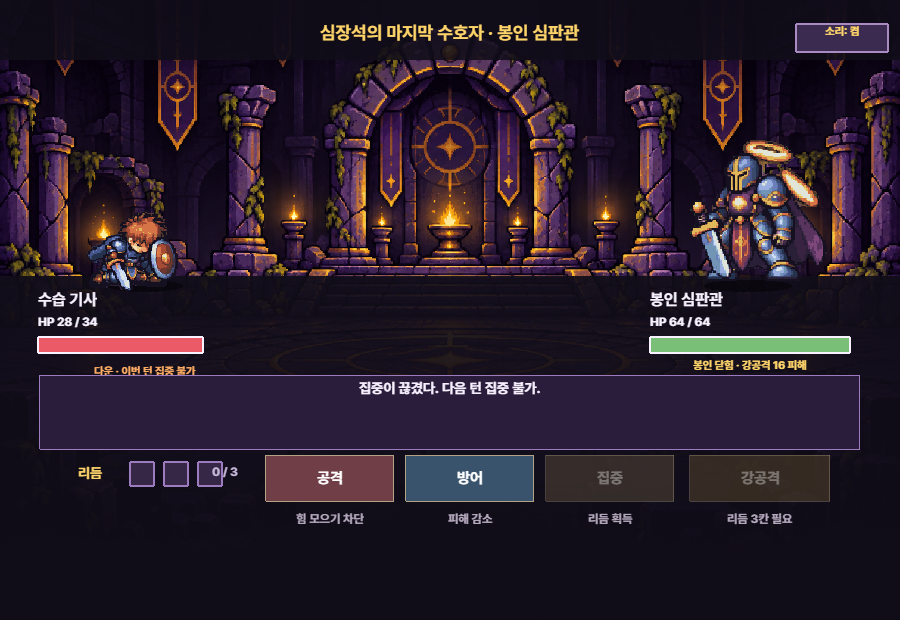
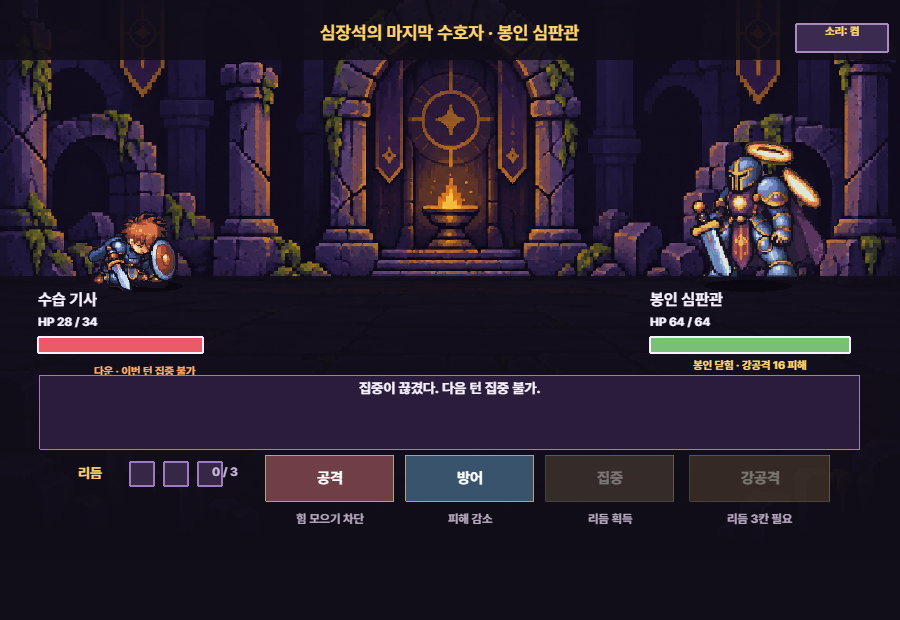
Align impact poses and simplify battle presentation

Changed region(s): [[0.0, 0.0919, 1.0, 0.4597]]

diff --git a/game.js b/game.js
@@ -419,6 +419,7 @@ class BattleScene extends Phaser.Scene {
 
   setPlayerPose(pose, hold = false) {
     if (!this.playerFigure?.active) return;
+    this.cancelStrikeMotion('player');
     // 수습 기사 전투 시트 원본은 오른쪽을 향한다. 모든 포즈 전환 뒤에도
     // 좌측 기사는 원본 방향 그대로 오른쪽의 적을 바라본다.
     this.playerFigure.setFlipX(false);
@@ -458,6 +459,7 @@ class BattleScene extends Phaser.Scene {
     if (!this.enemyConfig.combatSheet || !this.enemyFigure?.active) return;
     const prefix = this.enemyConfig.combatAnimKey;
     if (!this.anims.exists(`${prefix}-${pose}`)) return;
+    this.cancelStrikeMotion('enemy');
     if (pose === 'down') this.startEnemyDownMotion();
     else this.stopEnemyDownMotion();
     this.enemyFigure.play(`${prefix}-${pose}`, true);
@@ -487,7 +489,7 @@ class BattleScene extends Phaser.Scene {
   buildBackground() {
     this.cameras.main.setBackgroundColor('#171024');
     if (this.enemyConfig.boss) {
-      this.add.image(WIDTH / 2, HEIGHT / 2, 'seal-arbiter-arena').setDisplaySize(WIDTH, HEIGHT);
+      this.add.image(WIDTH / 2, HEIGHT / 2 - 60, 'seal-arbiter-arena').setDisplaySize(WIDTH, HEIGHT);
     } else {
       this.add.rectangle(WIDTH / 2, 374, WIDTH, 235, 0x21172e);
       pixelSprite(this, WIDTH / 2, 228, 'shrine-kit', 'arch', 390, .25);
@@ -522,7 +524,7 @@ class BattleScene extends Phaser.Scene {
   }
 
   buildUi() {
-    this.intentPanel = this.panel(225, 95, 410, 88); this.intentText = this.text(225, 64, '', 17, '#ffd56a', 'center'); this.intentDetail = this.text(225, 98, '', 12, '#c6b6d8', 'center');
+    this.intentPanel = this.panel(450, 95, 600, 66); this.intentText = this.text(450, 70, '', 15, '#ffd56a', 'center'); this.intentDetail = this.text(450, 99, '', 12, '#c6b6d8', 'center');
     this.playerName = this.text(38, 290, '수습 기사', 16);
     this.enemyName = this.text(650, 290, '', 16);
     this.playerHpText = this.text(38, 315, '', 12); this.enemyHpText = this.text(650, 315, '', 12);
@@ -688,12 +690,13 @@ class BattleScene extends Phaser.Scene {
       figure.anims.stop();
       figure.setFrame('guard-2');
     }
-    const compactGoblinGuard = side === 'enemy' && this.enemyConfig.id === 'goblin';
     figure.setTint(0x83d6ff);
     this.time.delayedCall(emphatic ? 520 : 440, () => {
       if (figure?.active) figure.clearTint();
     });
-    this.playEffect('guard', figure.x, figure.y, compactGoblinGuard ? (emphatic ? 94 : 80) : (emphatic ? 128 : 112), emphatic, emphatic ? 620 : 520, compactGoblinGuard ? 5 : 15);
+    const frontX = figure.x + (side === 'player' ? 40 : -36);
+    const chestY = figure.y - (side === 'player' ? 8 : 58);
+    this.playEffect('guard', frontX, chestY, emphatic ? 38 : 30, false, 260, 15);
     audio.play('defend');
   }
 
@@ -741,17 +744,60 @@ class BattleScene extends Phaser.Scene {
     this.enemyFigure.setPosition(base.x, base.y).setScale(base.scaleX, base.scaleY).setAngle(base.angle);
   }
 
-  animateLunge(side, emphatic = false) {
+  cancelStrikeMotion(side) {
+    const motion = this.strikeMotions?.[side];
+    if (!motion) return;
+    motion.tween?.stop();
+    motion.timers.forEach(timer => timer.remove(false));
+    if (motion.figure.active) motion.figure.setX(motion.homeX);
+    delete this.strikeMotions[side];
+  }
+
+  strikeImpact(side) {
+    const motion = this.strikeMotions?.[side];
+    if (!motion || motion.hit) return;
+    motion.hit = true;
+    motion.tween?.stop();
+    motion.figure.setX(motion.homeX + (side === 'player' ? 1 : -1) * (motion.heavy ? 40 : 28));
+    motion.figure.setFrame(`${motion.pose}-${motion.contact}`);
+    motion.phase = 'impact';
+    const hold = motion.heavy ? 180 : 120;
+    motion.timers.push(this.time.delayedCall(hold, () => {
+      if (!motion.figure.active) return;
+      motion.phase = 'recovery';
+      motion.figure.setFrame(`${motion.pose}-${motion.contact === 1 ? 2 : 3}`);
+      if (motion.contact === 1) motion.timers.push(this.time.delayedCall(90, () => {
+        if (motion.figure.active) motion.figure.setFrame(`${motion.pose}-3`);
+      }));
+      motion.tween = this.tweens.add({ targets: motion.figure, x: motion.homeX, duration: 200, ease: 'Sine.InOut' });
+    }));
+  }
+
+  animateLunge(side, emphatic = false, impactDelay = emphatic ? 560 : 360) {
     const figure = side === 'player' ? this.playerFigure : this.enemyFigure;
-    const distance = (side === 'player' ? 1 : -1) * (emphatic ? 38 : 24);
-    this.tweens.add({
-      targets: figure,
-      x: figure.x + distance,
-      duration: emphatic ? 145 : 150,
-      yoyo: true,
-      hold: emphatic ? 100 : 80,
-      ease: 'Cubic.Out',
-    });
+    if (!this.inputLocked) return; // 동기 규칙 검사에는 표시용 시간축을 만들지 않는다.
+    this.cancelStrikeMotion(side);
+    const sign = side === 'player' ? 1 : -1;
+    const pose = emphatic ? 'heavy' : 'attack';
+    const contact = emphatic || (side === 'enemy' && ['orc', 'kobold'].includes(this.enemyConfig.id)) ? 2 : 1;
+    const motion = { figure, pose, contact, heavy: emphatic, homeX: figure.x, timers: [], phase: 'anticipation', hit: false };
+    (this.strikeMotions ||= {})[side] = motion;
+    figure.anims.pause();
+    figure.setFrame(`${pose}-0`);
+    motion.tween = this.tweens.add({ targets: figure, x: motion.homeX - sign * 4, duration: Math.max(80, impactDelay - 100), ease: 'Sine.InOut' });
+    motion.timers.push(this.time.delayedCall(impactDelay - 100, () => {
+      if (!figure.active) return;
+      motion.phase = 'swing';
+      if (contact === 2) figure.setFrame(`${pose}-1`);
+      motion.tween = this.tweens.add({ targets: figure, x: motion.homeX + sign * (emphatic ? 40 : 28), duration: 100, ease: 'Cubic.In' });
+    }));
+    // 피해 처리와 같은 시점에 접촉 프레임을 확정하고, 이후에만 복귀한다.
+    motion.timers.push(this.time.delayedCall(impactDelay + (emphatic ? 390 : 330), () => {
+      if (!figure.active || this.strikeMotions?.[side] !== motion) return;
+      this.cancelStrikeMotion(side);
+      if (side === 'player') this.setPlayerPose('idle', true);
+      else this.setEnemyPose('idle', true);
+    }));
   }
 
   setHealth(side, value, animate = true) {
@@ -836,13 +882,12 @@ class BattleScene extends Phaser.Scene {
     const baseScaleX = figure.scaleX;
     const baseScaleY = figure.scaleY;
     figure.setTint(0xffd56a);
-    this.playEffect('rhythm', figure.x, figure.y - 42, 116, true, 520, 16);
-    this.playEffect('attack', figure.x - 44, figure.y - 4, 92, true, 420, 16);
+    this.playEffect('rhythm', figure.x, figure.y - 58, 44, false, 300, 16);
     this.tweens.add({
       targets: figure,
-      scaleX: baseScaleX * .9,
-      scaleY: baseScaleY * .9,
-      angle: -10,
+      scaleX: baseScaleX,
+      scaleY: baseScaleY,
+      angle: -4,
       duration: 120,
       yoyo: true,
       hold: 160,
@@ -951,6 +996,7 @@ class BattleScene extends Phaser.Scene {
 
   applyTutorialEnemyHit(outcome, fromPointer = false) {
     if (!outcome.playerDamage || this.enemyHp <= 0) return;
+    this.strikeImpact('player');
     this.resolutionPhase = 'collision';
     this.setHealth('enemy', this.enemyHp - outcome.playerDamage);
     const guarded = outcome.enemy.key === 'defend';
@@ -975,15 +1021,15 @@ class BattleScene extends Phaser.Scene {
         });
       }
     }
-    // 왼쪽의 기사가 내리친 지점에 효과를 두어, 방어 중인 적의 몸통·가드 효과를 덮지 않는다.
-    // 가드 중 고블린의 몸통·가드 파형보다 왼쪽, 즉 양측 사이에서만 충돌시킨다.
-    const impactX = this.enemyFigure.x - (guarded ? 172 : 88);
-    this.playEffect('attack', impactX, this.enemyFigure.y - 4, outcome.action === 'finisher' ? 112 : (guarded ? 60 : 78), outcome.action === 'finisher', undefined, 6);
+    // 검격은 공격 시트에 있다. 몸통 접촉 표식만 작게 두고 가드는 중복하지 않는다.
+    const impactX = this.enemyFigure.x - 36;
+    if (!guarded) this.playEffect('attack', impactX, this.enemyFigure.y - 58, 26, false, 150, 15);
     this.showFloatingText(this.enemyFigure.x, this.enemyFigure.y - 58, `-${outcome.playerDamage}`, '#ffb1b8', outcome.action === 'finisher');
   }
 
   applyTutorialPlayerHit(outcome) {
     if (!outcome.enemyDamage || this.playerHp <= 0 || this.enemyHp <= 0) return;
+    this.strikeImpact('enemy');
     this.resolutionPhase = 'collision';
     this.setHealth('player', this.playerHp - outcome.enemyDamage);
     const blocked = outcome.action === 'defend';
@@ -1061,15 +1107,13 @@ class BattleScene extends Phaser.Scene {
     const beginEnemyStrike = () => {
       if (this.enemyHp <= 0) return;
       this.setEnemyPose(enemyIsHeavy ? 'heavy' : 'attack', true);
-      this.animateLunge('enemy', enemyIsHeavy);
+      this.animateLunge('enemy', enemyIsHeavy, enemyStrikeDuration);
       if (enemyIsHeavy) this.cameras.main.shake(90, .0025);
       audio.play(enemyIsHeavy ? 'heavy' : 'enemyAttack');
     };
     const beginEnemyCharge = () => {
       if (this.enemyHp <= 0) return;
       this.setEnemyPose('charge', true);
-      const baseScale = this.enemyFigure.scaleX;
-      this.tweens.add({ targets: this.enemyFigure, scaleX: baseScale * 1.1, scaleY: baseScale * 1.1, duration: 150, yoyo: true, ease: 'Sine.InOut' });
       audio.play('charge');
     };
     const showPlayerGuardSelection = () => {
@@ -1114,13 +1158,13 @@ class BattleScene extends Phaser.Scene {
     }
 
     if (outcome.enemy.key === 'charge') {
+      beginEnemyCharge();
       if (playerStrike) {
         beginPlayerStrike();
         this.scheduleResolution(strikeDuration, () => this.applyTutorialEnemyHit(outcome, true));
         this.scheduleResolution(760 + strikeDuration, finish);
       } else {
         if (action === 'defend') showPlayerGuardSelection(); else beginFocus();
-        this.scheduleResolution(360, beginEnemyCharge);
         this.scheduleResolution(1050, finish);
       }
       return;
@@ -1129,18 +1173,18 @@ class BattleScene extends Phaser.Scene {
     if (action === 'defend') {
       showPlayerGuardSelection();
       this.scheduleResolution(440, beginEnemyStrike);
-      this.scheduleResolution(enemyIsHeavy ? 960 : 780, () => this.applyTutorialPlayerHit(outcome));
+      this.scheduleResolution(440 + enemyStrikeDuration, () => this.applyTutorialPlayerHit(outcome));
       this.scheduleResolution(enemyIsHeavy ? 1560 : 1280, finish);
     } else if (action === 'focus') {
       beginFocus();
       this.scheduleResolution(460, beginEnemyStrike);
-      this.scheduleResolution(800, () => this.applyTutorialPlayerHit(outcome));
-      this.scheduleResolution(1350, finish);
+      this.scheduleResolution(460 + enemyStrikeDuration, () => this.applyTutorialPlayerHit(outcome));
+      this.scheduleResolution(1060 + enemyStrikeDuration, finish);
     } else {
       beginPlayerStrike();
       this.scheduleResolution(strikeDuration, () => this.applyTutorialEnemyHit(outcome, true));
       this.scheduleResolution(420 + strikeDuration, beginEnemyStrike);
-      this.scheduleResolution((enemyIsHeavy ? 940 : 760) + strikeDuration, () => this.applyTutorialPlayerHit(outcome));
+      this.scheduleResolution(420 + enemyStrikeDuration + strikeDuration, () => this.applyTutorialPlayerHit(outcome));
       this.scheduleResolution((enemyIsHeavy ? 1540 : 1220) + strikeDuration, finish);
     }
   }
@@ -1183,15 +1227,16 @@ class BattleScene extends Phaser.Scene {
     const enemyImpact = enemyStart + (enemy.key === 'heavy' ? 620 : 400);
     const endTime = (attacking ? enemyImpact : strike ? impact : 500) + 700;
     if (strike) {
-      at(180, () => { this.setPlayerPose(heavy ? 'heavy' : 'attack', true); this.animateLunge('player', heavy); });
+      at(180, () => { this.setPlayerPose(heavy ? 'heavy' : 'attack', true); this.animateLunge('player', heavy, impact - 180); });
       at(impact, () => {
+        this.strikeImpact('player');
         this.resolutionPhase = 'collision';
         if (heavy) this.rhythm = 0;
         this.setHealth('enemy', this.enemyHp - playerDamage);
         this.setEnemyPose(interrupted ? 'down' : guarding ? 'guard' : 'hurt', true);
         if (guarding) { this.showGuard('enemy', true); this.animateGuardParry('enemy'); }
         else this.flashCombatant('enemy', 0xeb5b67, heavy);
-        this.playEffect('attack', this.enemyFigure.x - 70, this.enemyFigure.y, heavy ? 112 : 78, heavy);
+        if (!guarding) this.playEffect('attack', this.enemyFigure.x - 36, this.enemyFigure.y - 58, 26, false, 150, 15);
         this.showFloatingText(this.enemyFigure.x, this.enemyFigure.y - 58, `-${playerDamage}`, guarding ? '#9fdcff' : '#ffb1b8', heavy);
         audio.play(heavy ? 'finisher' : 'attack');
         lines.push(guarding ? `적이 막았다. 피해 ${playerDamage}.` : `${heavy ? '강공격' : '공격'} ${playerDamage} 피해.`);
@@ -1211,9 +1256,10 @@ class BattleScene extends Phaser.Scene {
       at(enemyStart, () => {
         if (strike) this.setPlayerPose('idle', true);
         this.setEnemyPose(enemy.key === 'heavy' ? 'heavy' : 'attack', true);
-        this.animateLunge('enemy', enemy.key === 'heavy');
+        this.animateLunge('enemy', enemy.key === 'heavy', enemyImpact - enemyStart);
       });
       at(enemyImpact, () => {
+        this.strikeImpact('enemy');
         this.resolutionPhase = 'collision';
         this.setHealth('player', this.playerHp - enemyDamage);
         this.setPlayerPose(down ? 'down' : action === 'defend' ? 'guard' : 'hurt', true);
@@ -1328,9 +1374,9 @@ class BattleScene extends Phaser.Scene {
     const detail = this.over ? (this.enemyHp <= 0 ? '길을 막던 적이 쓰러졌다.' : '이 전투의 처음부터 다시 도전할 수 있다.') : tutorial ? '고블린은 공격과 방어 자세를 반복합니다.' : '적은 같은 동작을 반복한다. 빈틈을 찾아보자.';
     this.intentText.setText(headline).setColor(patternEnemy && !this.over ? '#ffd56a' : intentColor);
     this.intentDetail.setText(detail);
-    this.intentPanel.setVisible(!boss).setStrokeStyle(patternEnemy ? 3 : enemy.key === 'heavy' ? 5 : 3, patternEnemy ? this.colors.gold : Phaser.Display.Color.HexStringToColor(intentColor).color);
+    this.intentPanel.setVisible(!boss && (tutorial || this.over)).setStrokeStyle(1, 0x776344);
     this.intentText.setVisible(!boss || this.over);
-    this.intentDetail.setVisible(!boss || this.over);
+    this.intentDetail.setVisible((!boss && tutorial) || this.over);
     if (!boss && !patternEnemy && !this.over && this.lastIntentKey !== enemy.key) {
       this.lastIntentKey = enemy.key;
       this.animateIntent(enemy);
